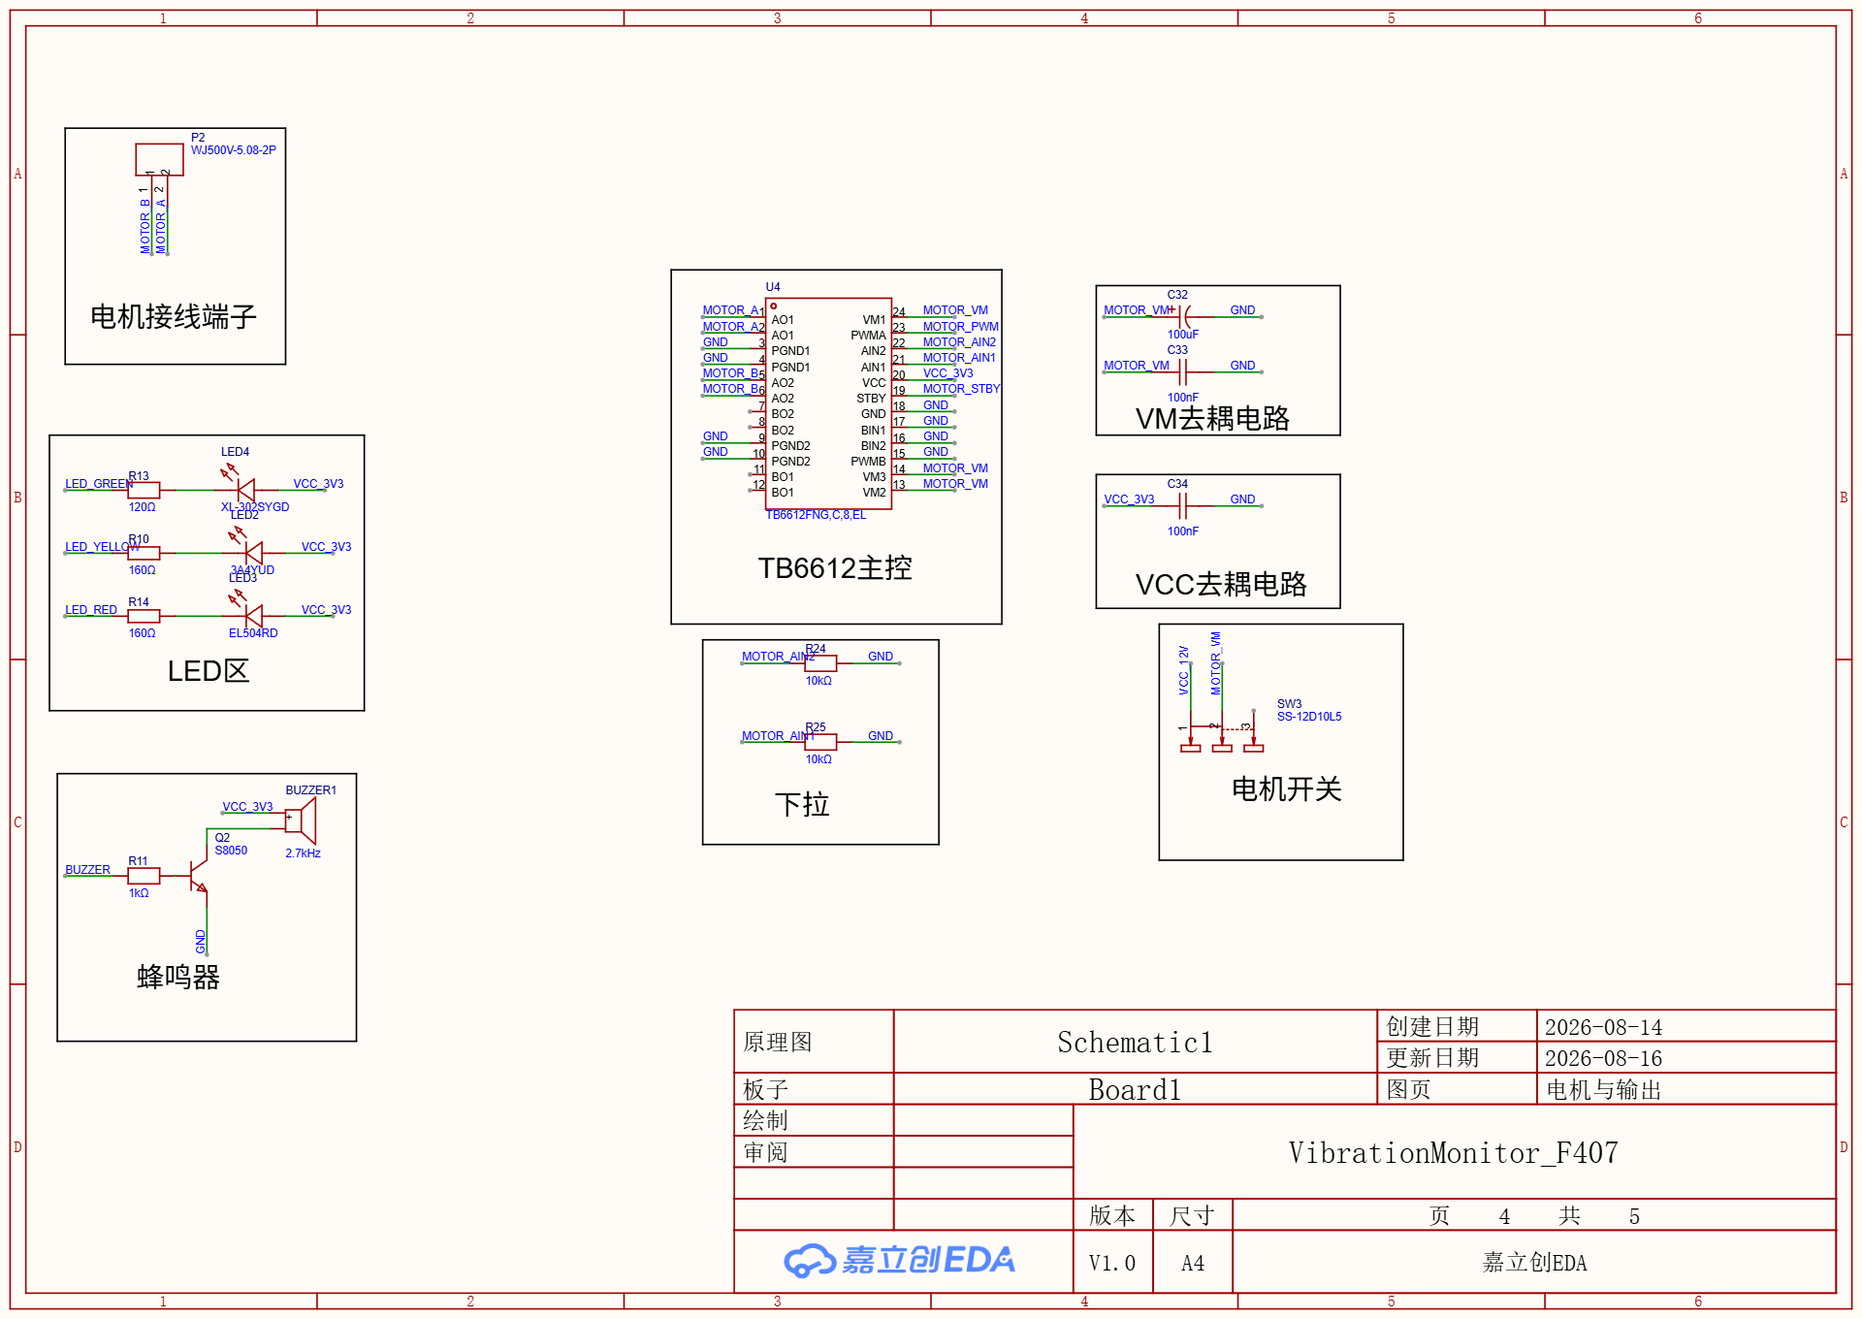
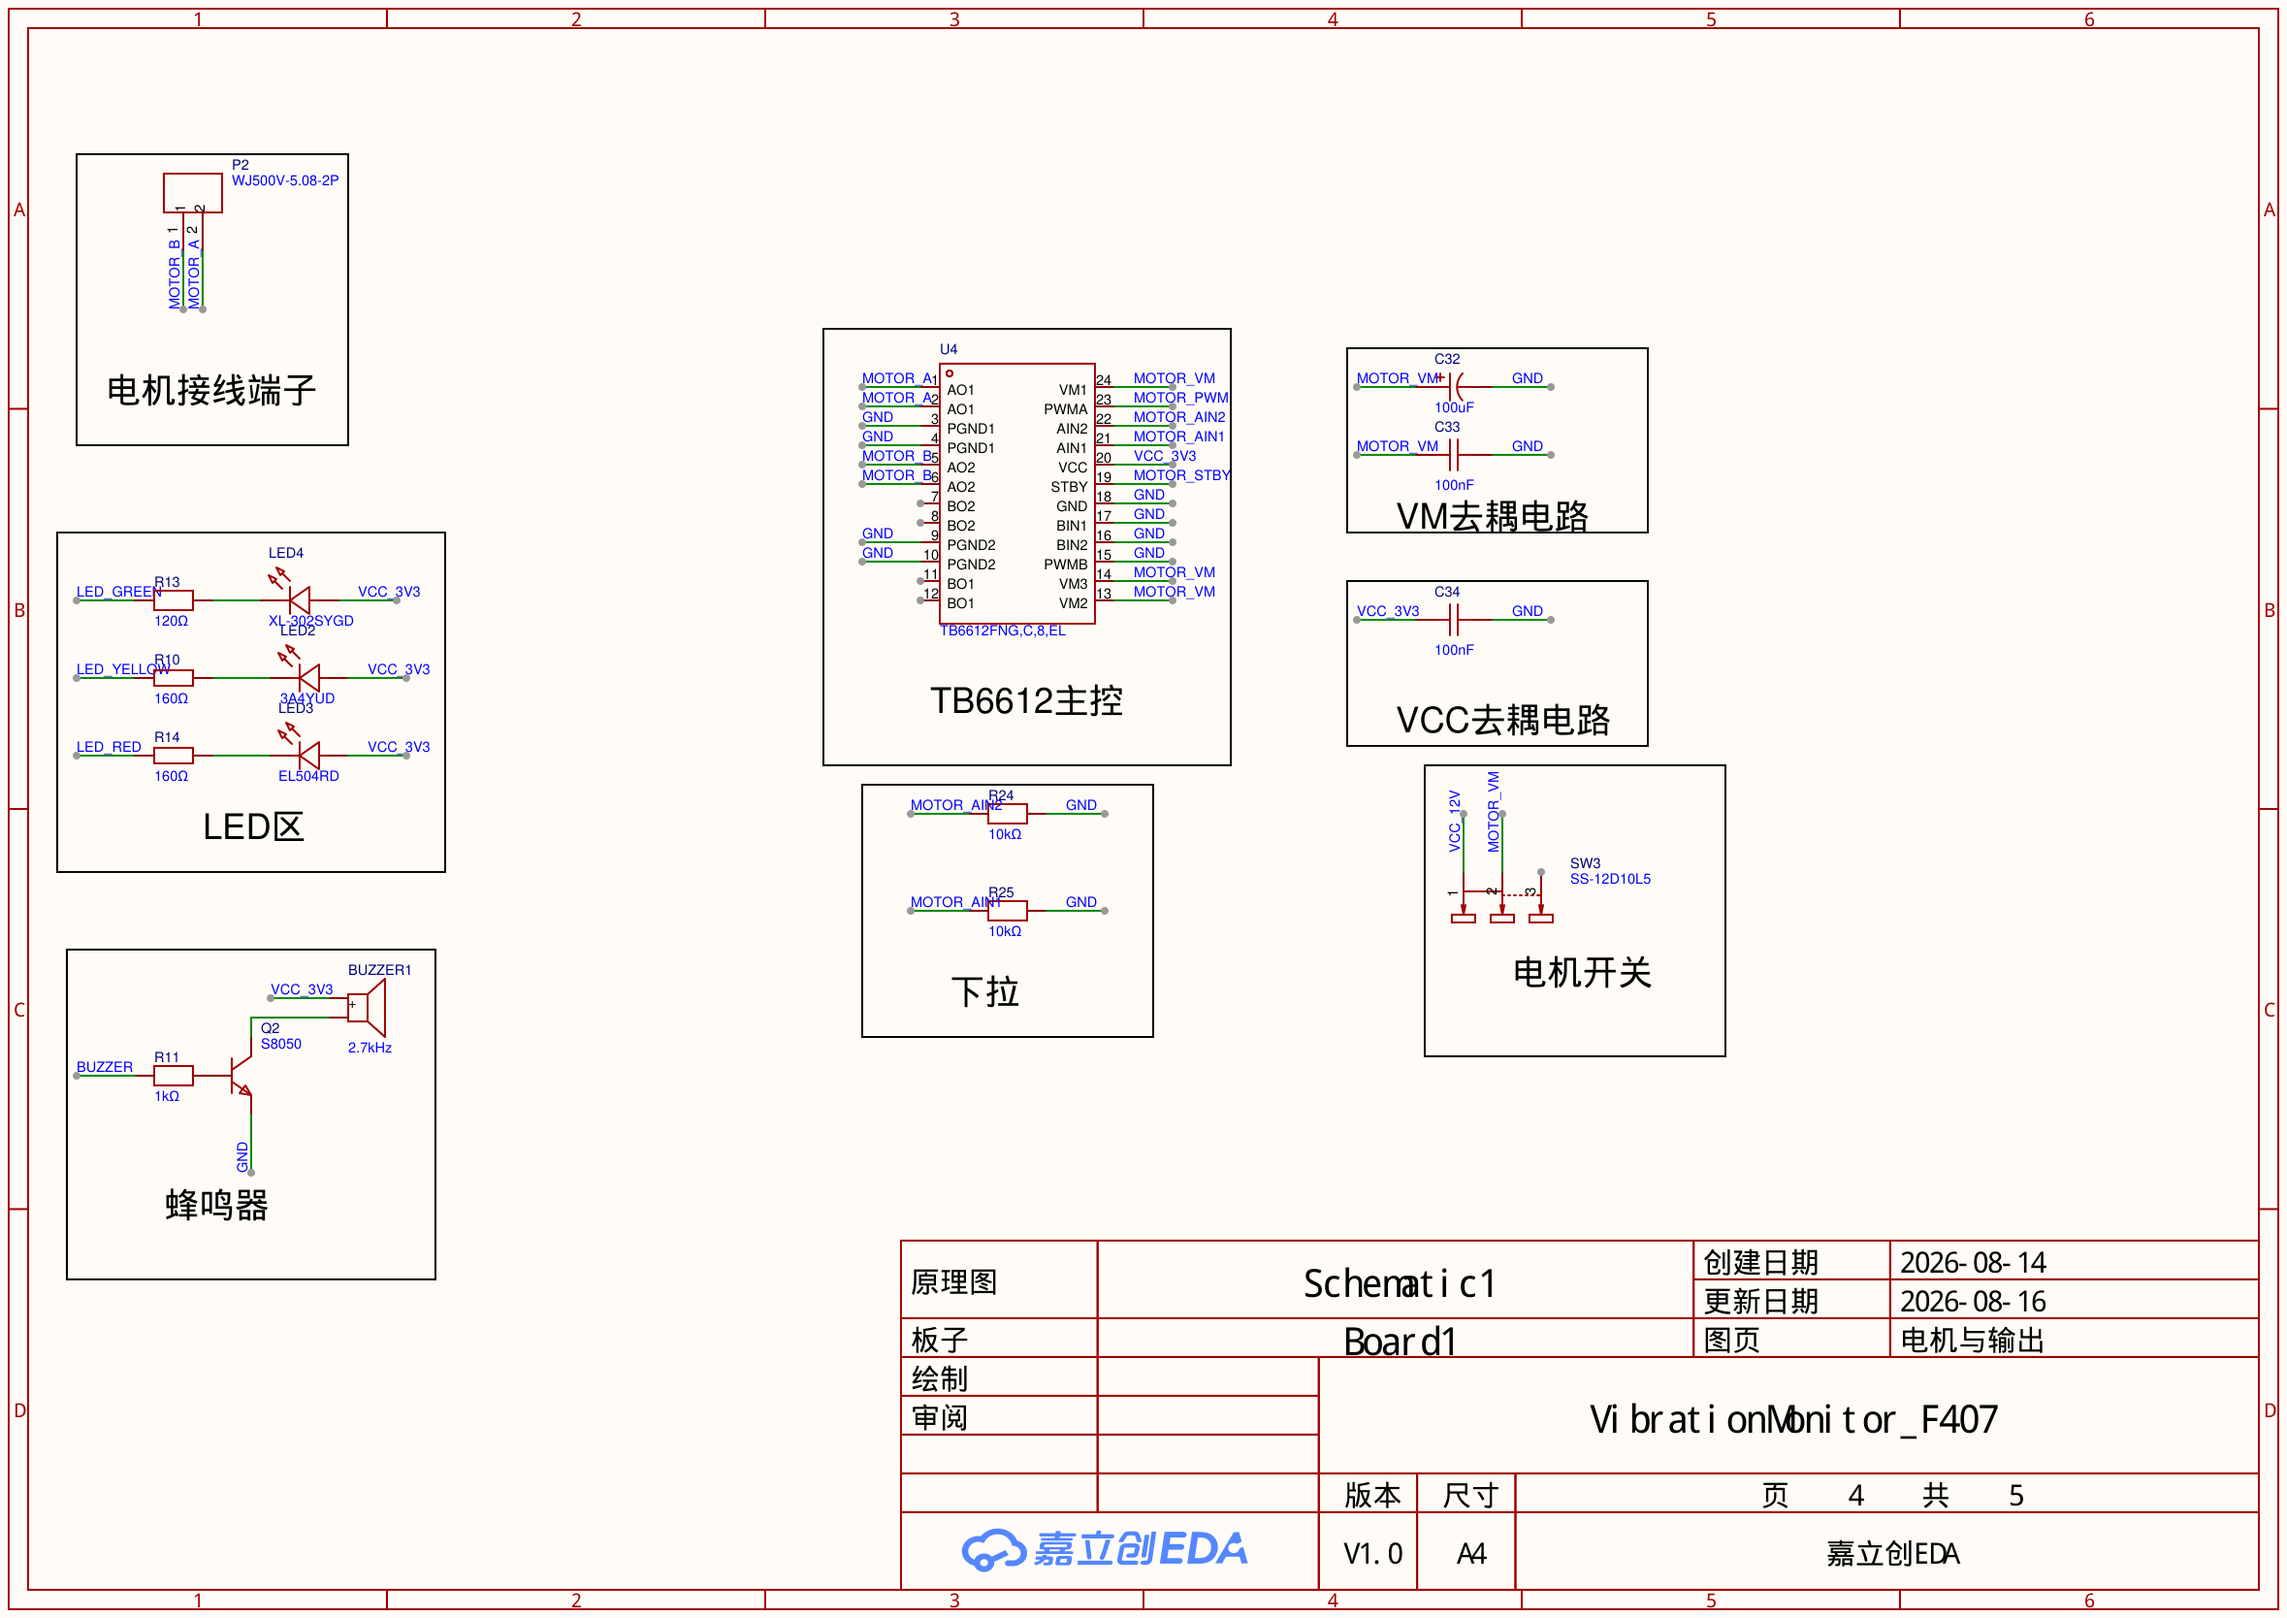
更新硬件图纸至最新版，补充 4 层板叠层信息
图纸来源：2026-09-16 从嘉立创EDA 重新导出
（SCH_Schematic1_2026-09-16.pdf / PCB_PCB1_2026-09-16.png / 3D_PCB1_2026-09-16.png）

- schematic/  原理图 5 页全部替换，由 PDF 按 200 DPI 重新渲染
              更新日期分别为 08-13 ~ 08-27，较上一版（08-16 云端备份）更新
- pcb/        PCB Layout 替换为最新版
- pcb/        新增 3D 渲染图 VibrationMonitor_F407_3D.png
- hardware/README.md  补充板卡规格：4 层板，叠层 信号 / GND / 电源 / 信号
                      设计要点新增「4 层板叠层」并重排为 5 条

主 README 首屏改用 3D 渲染图，硬件章节补 PCB Layout 图。

diff --git a/README.md b/README.md
@@ -5,10 +5,10 @@
 针对电机、风机等旋转设备的不平衡、基座松动等常见故障，传统云端诊断方案存在网络依赖与数据外泄风险，无法满足军工及高端制造客户"数据不出厂区"的要求。本项目把 FFT 特征提取、神经网络推理、故障存储全部放在 MCU 端完成，仅上报诊断结论，原始振动数据不出设备。
 
 <p align="center">
-  <img src="hardware/pcb/VibrationMonitor_F407_PCB_Layout.png" alt="VibrationMonitor_F407 PCB Layout" width="860">
+  <img src="hardware/pcb/VibrationMonitor_F407_3D.png" alt="VibrationMonitor_F407 主控板 3D 渲染" width="780">
 </p>
 
-<p align="center"><sub>主控板 PCB Layout（V1.0）— 原理图 5 页与嘉立创EDA 工程源文件见 <a href="hardware/">hardware/</a></sub></p>
+<p align="center"><sub>VibrationMonitor_F407 主控板（4 层板）— 原理图 5 页、PCB Layout 与嘉立创EDA 工程源文件见 <a href="hardware/">hardware/</a></sub></p>
 
 ---
 
@@ -101,7 +101,7 @@
 │   ├── schematic/     原理图 5 页（PNG，GitHub 上可直接预览）
 │   │                  ① STM32最小系统 ② 电源树 ③ 传感器
 │   │                  ④ 电机与输出    ⑤ 通信接口
-│   ├── pcb/           PCB Layout 总览
+│   ├── pcb/           PCB Layout 总览 + 3D 渲染图
 │   └── *.epru         嘉立创EDA 工程源文件（可编辑）
 │
 ├── esp32/             ESP32 无线通道 (Arduino)
@@ -138,12 +138,19 @@
 | 4 | 电机与输出 | TB6612FNG 双路 H 桥、LED 指示、蜂鸣器、电机开关 |
 | 5 | 通信接口 | USB Type-C、ESP32-WROOM-32、OLED、MAX13487 RS485 |
 
-**四个设计要点：**
+**五个设计要点：**
 
+- **4 层板叠层（信号 / GND / 电源 / 信号）**：第 2 层为完整 GND 平面，为第 1 层高速信号（SPI 5.25 MHz、8 MHz 晶振）提供就近回流路径，同时把信号层与第 3 层电源层隔开，避免电源噪声耦合进 mG 量级的 ADXL345 模拟电路。
 - **电源与电机隔离**：TB6612 的电机供电（VM）与逻辑供电（VCC）分开走线、各自独立去耦。电机是感性大电流负载，启停瞬间的反电动势极易串扰到 MCU。
 - **RS485 自动方向**：选用 MAX13487EESA 而非 MAX3485 + DE 控制线方案，省去一路 GPIO 和软件切换时序；代价是波特率受芯片内部超时限制，故固件锁定 115200（详见踩坑记录）。
 - **传感器端子化**：ADXL345 / DS18B20 经端子外接而非板上直焊——振动传感器需贴装于电机壳体，线长与位置直接影响信号质量，端子化便于现场调整。
 - **磁珠隔离电源**：ADXL345 供电串入 BLM18AG601SN1D 磁珠（600Ω@100MHz）。振动信号在 mG 量级，电源纹波会直接污染测量结果。
+
+<p align="center">
+  <img src="hardware/pcb/VibrationMonitor_F407_PCB_Layout.png" alt="VibrationMonitor_F407 PCB Layout" width="820">
+</p>
+
+<p align="center"><sub>PCB Layout — 4 层板 / 叠层 信号-GND-电源-信号</sub></p>
 
 ---
 

diff --git a/hardware/README.md b/hardware/README.md
@@ -4,6 +4,13 @@ STM32F407 振动监测终端主控板 —— 原理图与 PCB Layout。
 
 设计工具：**嘉立创EDA 专业版** V3.2.166
 
+| 板卡规格 | |
+|------|------|
+| 层数 | **4 层板** —— 叠层：信号 / GND / 电源 / 信号 |
+| 主控 | STM32F407ZGT6（LQFP144，168 MHz） |
+| 供电 | 12V DC 输入，板载 3.3V（MP2315）/ 5V（HT7150）双路 |
+| 打样 | 嘉立创 |
+
 ---
 
 ## 一、图纸索引
@@ -22,8 +29,13 @@ STM32F407 振动监测终端主控板 —— 原理图与 PCB Layout。
 
 | 内容 | 文件 |
 |------|------|
+| 3D 渲染图（器件装配效果） | [`pcb/VibrationMonitor_F407_3D.png`](pcb/VibrationMonitor_F407_3D.png) |
 | Layout 总览（丝印 / 走线 / 器件布局） | [`pcb/VibrationMonitor_F407_PCB_Layout.png`](pcb/VibrationMonitor_F407_PCB_Layout.png) |
 | 嘉立创EDA 工程源文件（可编辑） | [`VibrationMonitor_F407_嘉立创EDA工程.epru`](VibrationMonitor_F407_嘉立创EDA工程.epru) |
+
+<p align="center">
+  <img src="pcb/VibrationMonitor_F407_3D.png" alt="3D 渲染" width="820">
+</p>
 
 > 工程源文件用嘉立创EDA 专业版打开：`文件 → 打开 → 选择 .epru`。
 
@@ -72,16 +84,19 @@ STM32F407 振动监测终端主控板 —— 原理图与 PCB Layout。
 
 ## 四、设计要点
 
-**1. 电源与电机隔离**
+**1. 4 层板叠层：信号 / GND / 电源 / 信号**
+第 2 层为完整 GND 平面，为第 1 层的高速信号（SPI 5.25 MHz、8 MHz 晶振）提供紧耦合回流路径；同时把信号层与第 3 层电源层隔开，避免电源噪声耦合进 ADXL345 这类 mG 量级的敏感模拟电路。相比两层板，四层板把回流路径从"绕行"变成"就近"，是 EMI 与信号完整性最直接的一层保险。
+
+**2. 电源与电机隔离**
 TB6612 的电机供电（VM）与逻辑供电（VCC）分开走线，各自独立去耦（C32/C33、C34）。电机是大电流感性负载，启停瞬间的反电动势容易通过电源串扰到 MCU，分区去耦是最直接的抑制手段。
 
-**2. RS485 自动方向**
+**3. RS485 自动方向**
 选用 MAX13487EESA 而非传统的 MAX3485 + DE 控制线方案。前者内置自动方向控制，省去一路 GPIO 和软件切换时序，代价是**波特率受内部超时限制**——实测降到 57600 会导致帧尾被提前撤销，因此固件锁定 115200（详见 `docs/调试踩坑记录.docx`）。
 
-**3. 传感器接线端子化**
+**4. 传感器接线端子化**
 ADXL345 与 DS18B20 均通过端子（DB125-2.54-8P、WJ500V-5.08-03P）外接，而非直接焊在板上。振动传感器需要贴装在电机壳体上，走线长度和位置直接影响信号质量，端子化便于现场调整。
 
-**4. 磁珠隔离电源**
+**5. 磁珠隔离电源**
 ADXL345 供电串入 BLM18AG601SN1D 磁珠（600Ω@100MHz），抑制高频噪声从数字电源耦合进加速度计——振动信号幅度在 mG 量级，电源纹波会直接污染测量结果。
 
 ---
